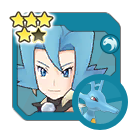
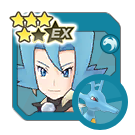
Add v2.34.0

Changed region(s): [[0.2963, 0.0889, 0.5926, 0.3556], [0.2667, 0.0889, 0.3259, 0.1185], [0.6815, 0.8889, 0.7111, 0.9185]]

diff --git a/js/syncpairs.js b/js/syncpairs.js
@@ -1144,7 +1144,8 @@ export const SYNCPAIRS = [
 		"syncPairRegion": "Johto",
 		"images": [
 			"Sync Pairs/0B_JOHTO/0B_JOHTO_0B-08_Clair.png",
-			"Sync Pairs/5Star/0B_JOHTO_0B-08_Clair_5Star.png"
+			"Sync Pairs/5Star/0B_JOHTO_0B-08_Clair_5Star.png",
+			"Sync Pairs/0B_JOHTO/0B_JOHTO_0B-08_Clair_EX.png"
 		],
 		"themes": [
 			"Dragon",
@@ -1576,6 +1577,41 @@ export const SYNCPAIRS = [
 		],
 		"tags": [
 			"Gen Pool",
+			"isMan",
+			"Multiple Units"
+		]
+	},
+	{
+		"dexNumber": "024",
+		"trainerName": "Tate",
+		"trainerAlt": "Summer 2023",
+		"pokemonNumber": "0385",
+		"pokemonName": "Jirachi",
+		"pokemonGender": "",
+		"pokemonForm": [],
+		"pokemonType": "Steel",
+		"pokemonWeak": "Ground",
+		"syncPairRole": "Tech",
+		"syncPairRarity": "5",
+		"releaseDate": "2023-06-30",
+		"syncPairRegion": "Hoenn",
+		"images": [
+			"Sync Pairs/0Y_SEASONALS/0Z_0B_SUM_2023_Tate.png",
+			"Sync Pairs/0Y_SEASONALS/0Z_0B_SUM_2023_Tate_EX.png"
+		],
+		"themes": [
+			"Steel",
+			"Hoenn",
+			"Gym Leader",
+			"Seasonal Outfit",
+			"Space Cadet"
+		],
+		"tags": [
+			"Mythical",
+			"Summer",
+			"Limited Sync Pair Scout",
+			"Seasonal",
+			"Multiple Units",
 			"isMan"
 		]
 	},
@@ -1607,6 +1643,41 @@ export const SYNCPAIRS = [
 		],
 		"tags": [
 			"Gen Pool",
+			"isWoman",
+			"Multiple Units"
+		]
+	},
+	{
+		"dexNumber": "025",
+		"trainerName": "Liza",
+		"trainerAlt": "Summer 2023",
+		"pokemonNumber": "0797",
+		"pokemonName": "Celesteela",
+		"pokemonGender": "",
+		"pokemonForm": [],
+		"pokemonType": "Flying",
+		"pokemonWeak": "Electric",
+		"syncPairRole": "Physical Strike",
+		"syncPairRarity": "5",
+		"releaseDate": "2023-07-02",
+		"syncPairRegion": "Hoenn",
+		"images": [
+			"Sync Pairs/0Y_SEASONALS/0Z_0B_SUM_2023_Liza.png",
+			"Sync Pairs/0Y_SEASONALS/0Z_0B_SUM_2023_Liza_EX.png"
+		],
+		"themes": [
+			"Flying",
+			"Hoenn",
+			"Gym Leader",
+			"Seasonal Outfit",
+			"Space Cadet"
+		],
+		"tags": [
+			"Ultra Beast",
+			"Summer",
+			"Limited Sync Pair Scout",
+			"Seasonal",
+			"Multiple Units",
 			"isWoman"
 		]
 	},
@@ -3426,7 +3497,9 @@ export const SYNCPAIRS = [
 		"tags": [
 			"Gen Pool - First-time Scout (Since 2.21.0 update)",
 			"Multiple Units",
-			"isMan"
+			"isMan",
+			"Grid3",
+			"GridExpansion"
 		]
 	},
 	{
@@ -7318,7 +7391,9 @@ export const SYNCPAIRS = [
 			"Poké Fair",
 			"Multiple Units",
 			"isWoman",
-			"Legendary"
+			"Legendary",
+			"Grid5",
+			"GridExpansion"
 		]
 	},
 	{
@@ -7762,6 +7837,38 @@ export const SYNCPAIRS = [
 			"Limited Sync Pair Scout",
 			"Multiple Units",
 			"Palentine"
+		]
+	},
+	{
+		"dexNumber": "114",
+		"trainerName": "Mallow",
+		"trainerAlt": "Variety",
+		"pokemonNumber": "0756",
+		"pokemonName": "Shiinotic",
+		"pokemonGender": "♀",
+		"pokemonForm": [],
+		"pokemonType": "Grass",
+		"pokemonWeak": "Poison",
+		"syncPairRole": "Support",
+		"syncPairRarity": "5",
+		"releaseDate": "2023-07-23",
+		"syncPairRegion": "Alola",
+		"images": [
+			"Sync Pairs/0G_ALOLA/0G_ALOLA_0C-02b_Mallow.png",
+			"Sync Pairs/0G_ALOLA/0G_ALOLA_0C-02b_Mallow_EX.png"
+		],
+		"themes": [
+			"Grass",
+			"Alola",
+			"Trial Giver",
+			"Cook"
+		],
+		"tags": [
+			"Limited Sync Pair Scout",
+			"Multiple Units",
+			"isWoman",
+			"ZMove",
+			"Variety"
 		]
 	},
 	{
@@ -8817,7 +8924,41 @@ export const SYNCPAIRS = [
 		"tags": [
 			"Gen Pool",
 			"isMan",
-			"ZMove"
+			"ZMove",
+			"Multiple Units"
+		]
+	},
+	{
+		"dexNumber": "130",
+		"trainerName": "Kiawe",
+		"trainerAlt": "Variety",
+		"pokemonNumber": "0059",
+		"pokemonName": "Arcanine",
+		"pokemonGender": "♂",
+		"pokemonForm": [],
+		"pokemonType": "Fire",
+		"pokemonWeak": "Rock",
+		"syncPairRole": "Tech",
+		"syncPairRarity": "5",
+		"releaseDate": "2023-07-21",
+		"syncPairRegion": "Alola",
+		"images": [
+			"Sync Pairs/0G_ALOLA/0G_ALOLA_0C-01b_Kiawe.png",
+			"Sync Pairs/0G_ALOLA/0G_ALOLA_0C-01b_Kiawe_EX.png"
+		],
+		"themes": [
+			"Fire",
+			"Alola",
+			"Trial Giver",
+			"Body Builder",
+			"Artistic"
+		],
+		"tags": [
+			"Limited Sync Pair Scout",
+			"Multiple Units",
+			"isMan",
+			"ZMove",
+			"Variety"
 		]
 	},
 	{
@@ -9207,7 +9348,8 @@ export const SYNCPAIRS = [
 		"releaseDate": "2021-08-12",
 		"syncPairRegion": "Galar",
 		"images": [
-			"Sync Pairs/0H_GALAR/0H_GALAR_0A-03_Hop.png"
+			"Sync Pairs/0H_GALAR/0H_GALAR_0A-03_Hop.png",
+			"Sync Pairs/0H_GALAR/0H_GALAR_0A-03_Hop_EX.png"
 		],
 		"themes": [
 			"Steel",
@@ -9221,6 +9363,8 @@ export const SYNCPAIRS = [
 			"Legendary Adventures",
 			"isMan",
 			"Multiple Units"
+			//"Grid3",
+			//"GridExpansion"
 		]
 	},
 	{
@@ -10283,10 +10427,44 @@ export const SYNCPAIRS = [
 			"Master Fair",
 			"Weather",
 			"Wish Zone",
-			//"Multiple Units",
+			"Multiple Units",
 			"isWoman",
 			"Hisui",
 			"Eeveelution"
+		]
+	},
+	{
+		"dexNumber": "167",
+		"trainerName": "Irida",
+		"trainerAlt": "Lodge",
+		"pokemonNumber": "0136",
+		"pokemonName": "Flareon",
+		"pokemonGender": "♂",
+		"pokemonForm": [],
+		"pokemonType": "Fire",
+		"pokemonWeak": "Water",
+		"syncPairRole": "Tech",
+		"syncPairRarity": "4",
+		"releaseDate": "2023-07-01",
+		"syncPairRegion": "Sinnoh",
+		"images": [
+			"Sync Pairs/0I_HISUI/0I_HISUI_0B-02_TL_Irida.png",
+			"Sync Pairs/5Star/0I_HISUI_0B-02_TL_Irida_5Star.png",
+			"Sync Pairs/0I_HISUI/0I_HISUI_0B-02_TL_Irida_EX.png"
+		],
+		"themes": [
+			"Fire",
+			"Sinnoh",
+			"Nature Lover",
+			"Artistic"
+		],
+		"tags": [
+			"Eeveelution",
+			"Limited Sync Pair Scout",
+			"Trainer Lodge",
+			"Multiple Units",
+			"isWoman",
+			"Hisui"
 		]
 	},
 	{
@@ -10321,6 +10499,77 @@ export const SYNCPAIRS = [
 			"Limited Sync Pair Scout",
 			"Poké Fair",
 			"isMan"
+		]
+	},
+	{
+		"dexNumber": "169",
+		"trainerName": "Rose",
+		"trainerAlt": "",
+		"pokemonNumber": "0879",
+		"pokemonName": "Copperajah",
+		"pokemonGender": "♀",
+		"pokemonForm": [
+			"Dynamax",
+			"Gigantamax"
+		],
+		"pokemonType": "Steel",
+		"pokemonWeak": "Fighting",
+		"syncPairRole": "Physical Strike",
+		"syncPairRarity": "5",
+		"releaseDate": "2023-07-14",
+		"syncPairRegion": "Galar",
+		"images": [
+			"Sync Pairs/0H_GALAR/0H_GALAR_Rose.png",
+			"Sync Pairs/0H_GALAR/0H_GALAR_Rose_EX.png"
+		],
+		"themes": [
+			"Steel",
+			"Galar",
+			"Villain",
+			"Passionate Spirit"
+		],
+		"tags": [
+			"Grid5",
+			"Limited Sync Pair Scout",
+			"Poké Fair",
+			"Weather",
+			"isMan"
+		]
+	},
+	{
+		"dexNumber": "170",
+		"trainerName": "Oleana",
+		"trainerAlt": "",
+		"pokemonNumber": "0569",
+		"pokemonName": "Garbodor",
+		"pokemonGender": "♀",
+		"pokemonForm": [
+			"Dynamax",
+			"Gigantamax"
+		],
+		"pokemonType": "Poison",
+		"pokemonWeak": "Ground",
+		"syncPairRole": "Tech",
+		"syncPairRarity": "5",
+		"releaseDate": "2023-07-16",
+		"syncPairRegion": "Galar",
+		"images": [
+			"Sync Pairs/0H_GALAR/0H_GALAR_Oleana.png",
+			"Sync Pairs/0H_GALAR/0H_GALAR_Oleana_EX.png"
+		],
+		"themes": [
+			"Poison",
+			"Galar",
+			"Villain",
+			"Researcher",
+			"Grown Woman"
+		],
+		"tags": [
+			"Grid5",
+			"Limited Sync Pair Scout",
+			"Poké Fair",
+			"isWoman",
+			"Rebuff"
 		]
 	}
 	/*,
@@ -10383,4 +10632,4 @@ export const SYNCPAIRS = [
 ]
 
 
-export const VERSION = "v2.33.0";
+export const VERSION = "v2.34.0";

diff --git a/js/news.js b/js/news.js
@@ -1,5 +1,9 @@
 export const NEWS = [
 	{
+		"date": "2023-06-28",
+		"info" : "Add v2.34.0"
+	},
+	{
 		"date": "2023-05-29",
 		"info" : "Add v2.33.0"
 	},
